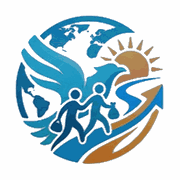
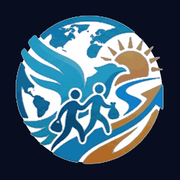
Тёмная иконка приложения на телефоне (иконки PWA и apple-touch на тёмном фоне, тёмный manifest) и свой выпадающий список городов (CityInput) вместо datalist, который не работал на телефонах

diff --git a/frontend/src/components/CityInput.jsx b/frontend/src/components/CityInput.jsx
@@ -1,0 +1,93 @@
+import { useMemo, useRef, useState } from "react";
+import { MapPin } from "lucide-react";
+import { CITIES } from "../constants.js";
+
+export default function CityInput({ icon: Icon, value, onChange, options = CITIES, className = "", wrapperClassName = "", onFocus, onBlur, ...props }) {
+  const [open, setOpen] = useState(false);
+  const [active, setActive] = useState(-1);
+  const listRef = useRef(null);
+
+  const matches = useMemo(() => {
+    const q = (value || "").trim().toLowerCase();
+    const all = [...new Set(options.filter(Boolean))];
+    if (!q) return all;
+    const starts = all.filter((c) => c.toLowerCase().startsWith(q));
+    const contains = all.filter((c) => !c.toLowerCase().startsWith(q) && c.toLowerCase().includes(q));
+    return [...starts, ...contains];
+  }, [value, options]);
+
+  const visible = open && matches.length > 0 && !(matches.length === 1 && matches[0] === value);
+
+  const pick = (city) => {
+    onChange({ target: { value: city } });
+    setOpen(false);
+    setActive(-1);
+  };
+
+  const onKeyDown = (e) => {
+    if (!visible) return;
+    if (e.key === "ArrowDown" || e.key === "ArrowUp") {
+      e.preventDefault();
+      const next = e.key === "ArrowDown" ? Math.min(active + 1, matches.length - 1) : Math.max(active - 1, 0);
+      setActive(next);
+      listRef.current?.children[next]?.scrollIntoView({ block: "nearest" });
+    } else if (e.key === "Enter" && active >= 0) {
+      e.preventDefault();
+      pick(matches[active]);
+    } else if (e.key === "Escape") {
+      setOpen(false);
+    }
+  };
+
+  return (
+    <span className={`relative block ${wrapperClassName}`}>
+      {Icon && <Icon className="pointer-events-none absolute left-4 top-1/2 z-10 h-[18px] w-[18px] -translate-y-1/2 text-on-surface-variant" aria-hidden />}
+      <input
+        {...props}
+        className={className}
+        value={value}
+        autoComplete="off"
+        role="combobox"
+        aria-expanded={visible}
+        aria-autocomplete="list"
+        onChange={(e) => {
+          onChange(e);
+          setOpen(true);
+          setActive(-1);
+        }}
+        onFocus={(e) => {
+          setOpen(true);
+          onFocus?.(e);
+        }}
+        onBlur={(e) => {
+          setOpen(false);
+          onBlur?.(e);
+        }}
+        onKeyDown={onKeyDown}
+      />
+      {visible && (
+        <ul
+          ref={listRef}
+          role="listbox"
+          className="absolute left-0 right-0 top-full z-40 mt-2 max-h-64 min-w-[12rem] overflow-y-auto rounded-xl bg-surface-container-lowest p-1 text-left shadow-xl ring-1 ring-outline-variant"
+        >
+          {matches.map((city, i) => (
+            <li
+              key={city}
+              role="option"
+              aria-selected={i === active}
+              onPointerDown={(e) => {
+                e.preventDefault();
+                pick(city);
+              }}
+              className={`flex cursor-pointer items-center gap-2 rounded-lg px-3 py-2.5 text-body-md text-on-surface transition-colors hover:bg-surface-container-high ${i === active ? "bg-surface-container-high" : ""}`}
+            >
+              <MapPin className="h-4 w-4 shrink-0 text-on-surface-variant" aria-hidden />
+              {city}
+            </li>
+          ))}
+        </ul>
+      )}
+    </span>
+  );
+}

diff --git a/frontend/src/pages/Housing.jsx b/frontend/src/pages/Housing.jsx
@@ -5,6 +5,7 @@ import { api } from "../api.js";
 import { useApi } from "../hooks.js";
 import { t } from "../i18n.js";
 import { CITIES } from "../constants.js";
+import CityInput from "../components/CityInput.jsx";
 import { DeleteHousing, FLAGS, FOR_WHOM, HOUSING_KINDS, HousingCard, HousingForm } from "../components/Housing.jsx";
 import { Stagger, StaggerItem } from "../components/motion.jsx";
 import { ActiveFilters, ChipRow, FilterBar, FilterGroup, FilterSheet, OptionGrid, SortSelect, chipClass } from "../components/Filters.jsx";
@@ -204,9 +205,8 @@ export default function Housing() {
             <MapPin className="h-5 w-5 shrink-0 text-on-surface-variant" aria-hidden />
             <span className="flex flex-1 flex-col">
               <span className="text-label-sm text-on-surface-variant">{t("Шаҳр")}</span>
-              <input className="w-full border-0 bg-transparent p-0 text-body-lg text-on-surface placeholder:text-outline focus:ring-0" value={city} onChange={(e) => setCity(e.target.value)} placeholder={t("Масалан: Москва")} list="housing-cities" />
+              <CityInput className="w-full border-0 bg-transparent p-0 text-body-lg text-on-surface placeholder:text-outline focus:ring-0" value={city} onChange={(e) => setCity(e.target.value)} placeholder={t("Масалан: Москва")} options={cities} />
             </span>
-            <datalist id="housing-cities">{cities.map((c) => <option key={c} value={c} />)}</datalist>
           </label>
           <span className="hidden h-12 items-center justify-center gap-2 rounded-xl bg-ink px-6 text-label-lg tabular-nums text-on-ink md:flex">
             <Search className="h-4 w-4" aria-hidden />

diff --git a/frontend/src/pages/Jobs.jsx b/frontend/src/pages/Jobs.jsx
@@ -5,7 +5,8 @@ import { api } from "../api.js";
 import { useAuth } from "../auth.jsx";
 import { useApi } from "../hooks.js";
 import { t } from "../i18n.js";
-import { CITIES, INDUSTRIES } from "../constants.js";
+import { INDUSTRIES } from "../constants.js";
+import CityInput from "../components/CityInput.jsx";
 import { JobRow } from "../components/JobCard.jsx";
 import { BlacklistCompany } from "../components/Blacklist.jsx";
 import { Stagger, StaggerItem } from "../components/motion.jsx";
@@ -220,13 +221,8 @@ export default function Jobs() {
             <MapPin className="h-5 w-5 shrink-0 text-on-surface-variant" aria-hidden />
             <span className="flex flex-1 flex-col">
               <span className="text-label-sm text-on-surface-variant">{t("Шаҳр")}</span>
-              <input className="w-full border-0 bg-transparent p-0 text-body-lg text-on-surface placeholder:text-outline focus:ring-0" value={city} onChange={(e) => setCity(e.target.value)} placeholder={t("Масалан: Москва")} list="cities" />
+              <CityInput className="w-full border-0 bg-transparent p-0 text-body-lg text-on-surface placeholder:text-outline focus:ring-0" value={city} onChange={(e) => setCity(e.target.value)} placeholder={t("Масалан: Москва")} />
             </span>
-            <datalist id="cities">
-              {CITIES.map((c) => (
-                <option key={c} value={c} />
-              ))}
-            </datalist>
           </label>
           <span className="hidden h-12 items-center justify-center gap-2 rounded-xl bg-ink px-6 text-label-lg tabular-nums text-on-ink md:flex">
             <Search className="h-4 w-4" aria-hidden />

diff --git a/frontend/src/pages/Shops.jsx b/frontend/src/pages/Shops.jsx
@@ -6,6 +6,7 @@ import { useAuth } from "../auth.jsx";
 import { useApi } from "../hooks.js";
 import { t } from "../i18n.js";
 import { CITIES, SHOP_CATEGORIES } from "../constants.js";
+import CityInput from "../components/CityInput.jsx";
 import { ProductCard, ShopCard } from "../components/Shop.jsx";
 import { Stagger, StaggerItem } from "../components/motion.jsx";
 import { Button, EmptyState, ErrorBox, PageHeader, Skeleton } from "../components/ui.jsx";
@@ -170,9 +171,8 @@ export default function Shops() {
             <MapPin className="h-5 w-5 shrink-0 text-on-surface-variant" aria-hidden />
             <span className="flex flex-1 flex-col">
               <span className="text-label-sm text-on-surface-variant">{t("Шаҳр")}</span>
-              <input className="w-full border-0 bg-transparent p-0 text-body-lg text-on-surface placeholder:text-outline focus:ring-0" value={city} onChange={(e) => setCity(e.target.value)} placeholder={t("Масалан: Москва")} list="shop-cities" />
+              <CityInput className="w-full border-0 bg-transparent p-0 text-body-lg text-on-surface placeholder:text-outline focus:ring-0" value={city} onChange={(e) => setCity(e.target.value)} placeholder={t("Масалан: Москва")} options={cities} />
             </span>
-            <datalist id="shop-cities">{cities.map((c) => <option key={c} value={c} />)}</datalist>
           </label>
           <span className="flex h-12 items-center justify-center gap-2 rounded-xl bg-ink px-6 text-label-lg tabular-nums text-on-ink">
             <Search className="h-4 w-4" aria-hidden />

diff --git a/frontend/src/pages/MyShops.jsx b/frontend/src/pages/MyShops.jsx
@@ -4,7 +4,8 @@ import { Camera, ExternalLink, FileUp, ImagePlus, MapPinned, Package, PackageChe
 import { api, apiAll, errorText } from "../api.js";
 import { useApi } from "../hooks.js";
 import { t } from "../i18n.js";
-import { CITIES, SHOP_CATEGORIES, UNITS } from "../constants.js";
+import { SHOP_CATEGORIES, UNITS } from "../constants.js";
+import CityInput from "../components/CityInput.jsx";
 import { PROOF_KINDS, Price, ProductPhoto, ProofThumb, ShopLogo, ShopStatus, fitPhoto } from "../components/Shop.jsx";
 import LocationPicker from "../components/LocationPicker.jsx";
 import { Button, Drawer, EmptyState, ErrorBox, Field, PageHeader, Skeleton, Switch } from "../components/ui.jsx";
@@ -241,8 +242,7 @@ function ShopForm({ open, shop, onClose, onSaved }) {
         </Field>
         <div className="grid gap-4 md:grid-cols-2">
           <Field label={t("Шаҳр")} required error={fieldError("city")}>
-            <input className="input" value={form.city} onChange={set("city")} required minLength={2} list="my-shop-cities" />
-            <datalist id="my-shop-cities">{CITIES.map((c) => <option key={c} value={c} />)}</datalist>
+            <CityInput className="input" value={form.city} onChange={set("city")} required minLength={2} />
           </Field>
           <Field label={t("Вақти корӣ")}>
             <input className="input" value={form.opening_hours} onChange={set("opening_hours")} maxLength={120} placeholder="Пн–Вс 08:00–22:00" />

diff --git a/frontend/src/pages/Scams.jsx b/frontend/src/pages/Scams.jsx
@@ -8,7 +8,7 @@ import { useAuth } from "../auth.jsx";
 import { useApi } from "../hooks.js";
 import { t, useLang } from "../i18n.js";
 import { ago, rub } from "../format.js";
-import { CITIES } from "../constants.js";
+import CityInput from "../components/CityInput.jsx";
 import { Button, Drawer, EmptyState, ErrorBox, Field, PageHeader, Skeleton } from "../components/ui.jsx";
 import { Reveal, Stagger, StaggerItem } from "../components/motion.jsx";
 
@@ -170,8 +170,7 @@ function ReportForm({ onSent }) {
       </Field>
       <div className="grid gap-4 sm:grid-cols-2">
         <Field label={t("Шаҳр")} error={fieldError("city")}>
-          <input className="input" value={form.city} maxLength={100} onChange={(e) => set("city", e.target.value)} list="scam-cities" placeholder={t("Масалан: Москва")} />
-          <datalist id="scam-cities">{CITIES.map((c) => <option key={c} value={c} />)}</datalist>
+          <CityInput className="input" value={form.city} maxLength={100} onChange={(e) => set("city", e.target.value)} placeholder={t("Масалан: Москва")} />
         </Field>
         <Field label={t("Чанд пул гирифтанд (₽)")} error={fieldError("lost_amount")}>
           <input className="input" type="number" min={0} inputMode="numeric" value={form.lost_amount} onChange={(e) => set("lost_amount", e.target.value)} placeholder="15000" />

diff --git a/frontend/src/pages/Profile.jsx b/frontend/src/pages/Profile.jsx
@@ -16,7 +16,7 @@ import TelegramConnect from "../components/TelegramConnect.jsx";
 import { Reveal, Stagger, StaggerItem } from "../components/motion.jsx";
 import { Heatmap, ShareBars, StatCard, StatTile } from "../components/Stats.jsx";
 import { ago, date, rub } from "../format.js";
-import { CITIES } from "../constants.js";
+import CityInput from "../components/CityInput.jsx";
 
 const ROLE_NAMES = { editor: () => t("Муҳаррир"), admin: () => t("Админ") };
 
@@ -355,8 +355,7 @@ export default function Profile() {
               <IconInput icon={Phone} type="tel" value={form.phone} onChange={(e) => set("phone", e.target.value)} placeholder="+7 999 123-45-67" autoComplete="tel" />
             </Field>
             <Field label={t("Шаҳр дар Русия")} error={errors.city}>
-              <IconInput icon={Building2} value={form.city} onChange={(e) => set("city", e.target.value)} placeholder={t("Масалан: Москва")} list="profile-cities" autoComplete="off" />
-              <datalist id="profile-cities">{CITIES.map((c) => <option key={c} value={c} />)}</datalist>
+              <CityInput icon={Building2} className="input pl-11" value={form.city} onChange={(e) => set("city", e.target.value)} placeholder={t("Масалан: Москва")} />
             </Field>
           </div>
         </Section>

diff --git a/frontend/public/sw.js b/frontend/public/sw.js
@@ -1,4 +1,4 @@
-const VERSION = "muhojir-v6";
+const VERSION = "muhojir-v7";
 const SHELL = ["/", "/manifest.webmanifest", "/logo.png", "/icon-192.png"];
 
 const OFFLINE_API = [
